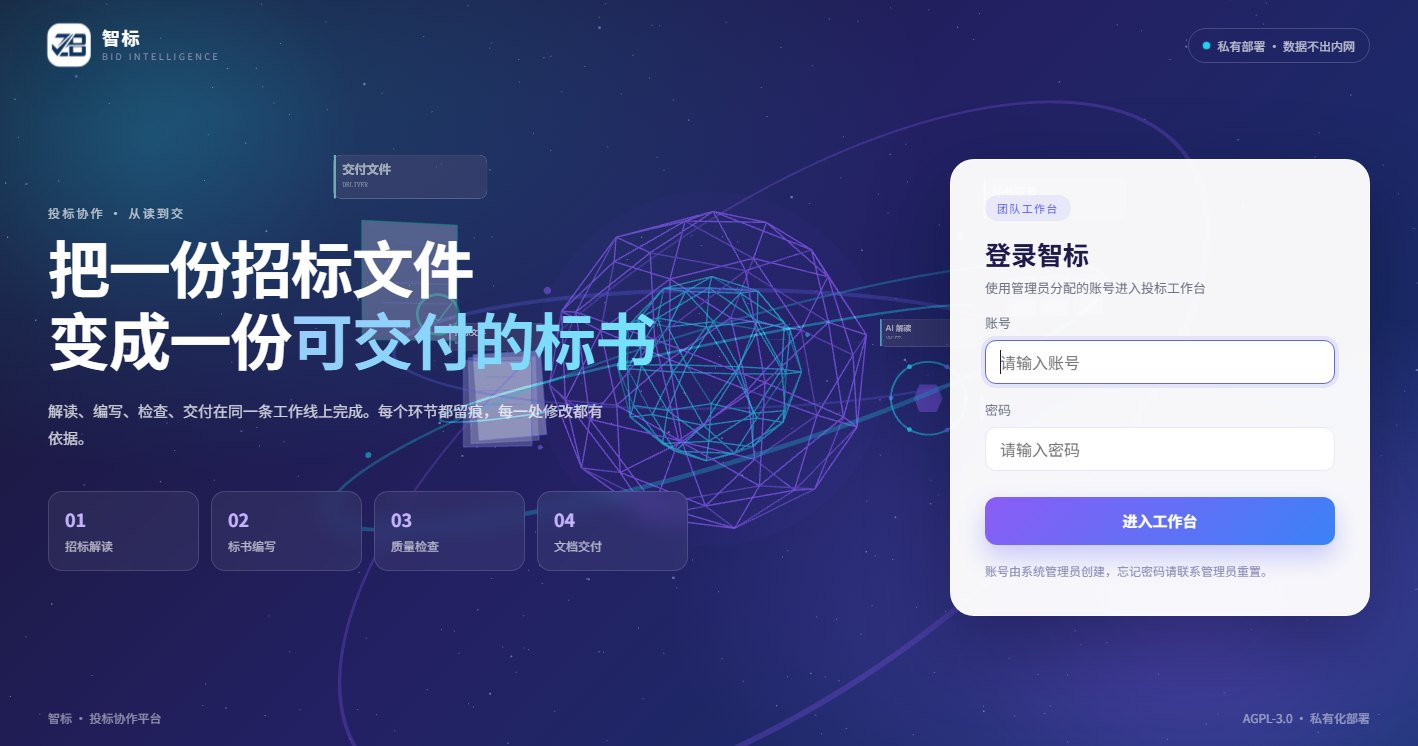
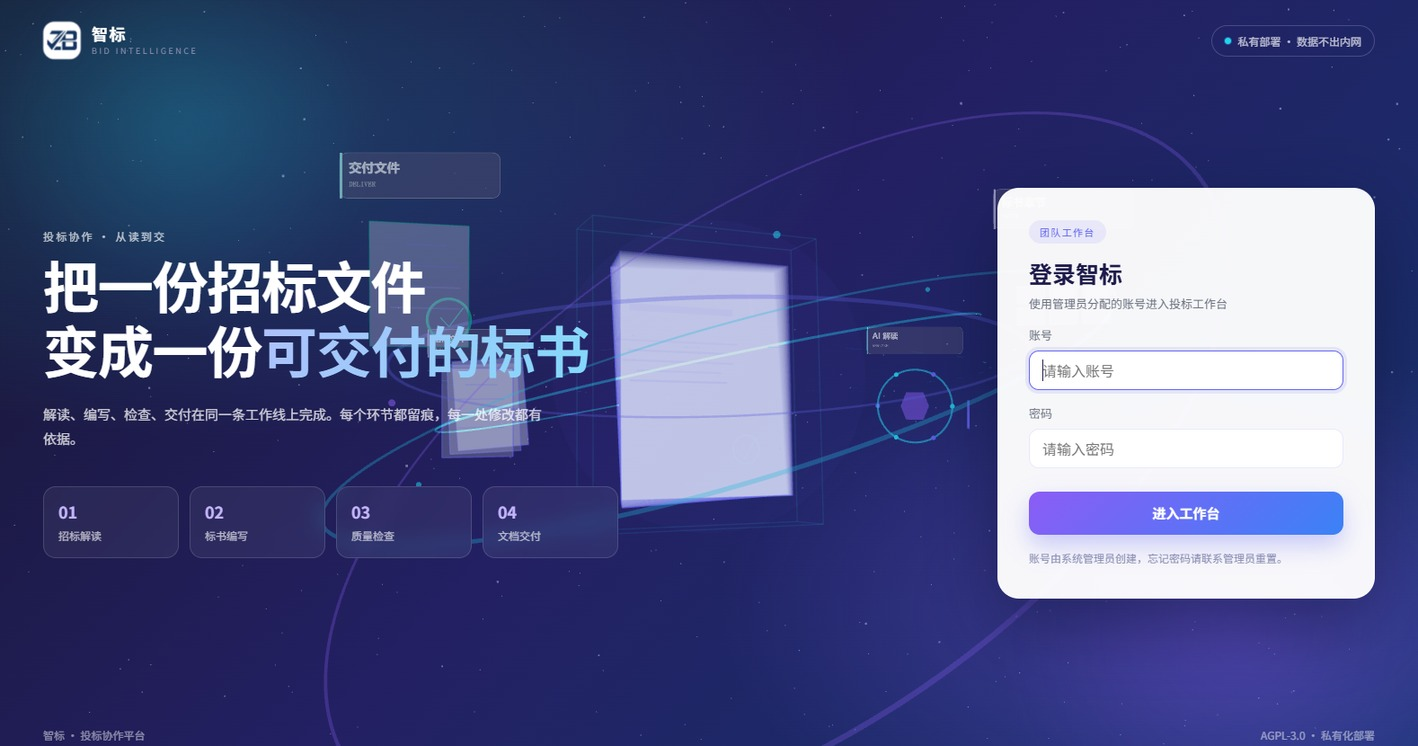
feat(web): 登录页中央球体改为一叠投标文件
- 用纸张叠层、封面标题条/目录行、书签与印章替代与业务无关的线框球
- 外层保留低透明度扫描框，四个业务站点仍围绕标书运转
- 更新 README 登录页说明与截图

diff --git a/packages/web/renderer-v2/src/components/Backdrop.tsx b/packages/web/renderer-v2/src/components/Backdrop.tsx
@@ -116,20 +116,81 @@ export function Backdrop({ dense = false }: Props) {
         blending: THREE.AdditiveBlending,
       });
 
-    // ── 中央“投标智能核”：文件、评分与交付围绕它运转 ──
-    const core = new THREE.Mesh(
-      new THREE.IcosahedronGeometry(compact ? 2.5 : 3.1, 1),
-      new THREE.MeshBasicMaterial({ color: colors.violet, wireframe: true, transparent: true, opacity: 0.52 }),
-    );
+    // ── 中央：一叠待交付的投标文件 ──
+    // 原来的嵌套线框球与标书没有任何关系；换成纸张叠层 + 封面目录行 + 印章，
+    // 让视线中心就是「一份标书」，轨道上的文件/解读/章节/交付围绕它运转。
+    const core = new THREE.Group();
+    core.rotation.x = -0.12;
+    core.scale.setScalar(compact ? 1 : 1.15);
     group.add(core);
 
-    const inner = new THREE.Mesh(
-      new THREE.IcosahedronGeometry(compact ? 1.45 : 1.8, 1),
-      new THREE.MeshBasicMaterial({ color: colors.cyan, wireframe: true, transparent: true, opacity: 0.38 }),
-    );
-    group.add(inner);
+    const bookW = compact ? 2.5 : 3.1;
+    const bookH = compact ? 3.3 : 4.0;
+    const bookPageGeo = new THREE.PlaneGeometry(bookW, bookH);
+    const bookPageEdges = new THREE.EdgesGeometry(bookPageGeo);
+    const bookPageCount = compact ? 7 : 10;
+    const pageStep = compact ? 0.05 : 0.06;
+    for (let index = 0; index < bookPageCount; index += 1) {
+      const front = index === bookPageCount - 1;
+      const page = new THREE.Mesh(bookPageGeo, fillMaterial(colors.paper, front ? 0.62 : 0.2));
+      page.position.set(index * 0.012, -index * 0.008, -index * pageStep);
+      page.rotation.z = index * 0.005;
+      core.add(page);
+      const edges = new THREE.LineSegments(
+        bookPageEdges,
+        lineMaterial(colors.indigo, front ? 0.82 : 0.28),
+      );
+      edges.position.copy(page.position);
+      edges.rotation.copy(page.rotation);
+      core.add(edges);
+    }
+    const coverZ = -(bookPageCount - 1) * pageStep + 0.012;
 
-    const coreGlow = new THREE.Mesh(new THREE.SphereGeometry(compact ? 2.7 : 3.3, 24, 24), glowMaterial(colors.violet, 0.045));
+    const titleBar = new THREE.Mesh(
+      new THREE.PlaneGeometry(bookW * 0.62, 0.12),
+      fillMaterial(colors.indigo, 0.8),
+    );
+    titleBar.position.set(-bookW * 0.08, bookH * 0.3, coverZ);
+    core.add(titleBar);
+
+    [0.72, 0.6, 0.66, 0.5, 0.58].forEach((ratio, index) => {
+      const rule = new THREE.Mesh(
+        new THREE.PlaneGeometry(bookW * ratio, 0.035),
+        fillMaterial(colors.indigo, 0.45),
+      );
+      rule.position.set(-bookW * 0.1, bookH * 0.16 - index * 0.17, coverZ);
+      core.add(rule);
+    });
+
+    const ribbon = new THREE.Mesh(
+      new THREE.PlaneGeometry(0.1, 0.52),
+      fillMaterial(colors.violet, 0.55),
+    );
+    ribbon.position.set(bookW * 0.34, bookH * 0.36, coverZ + 0.004);
+    ribbon.rotation.z = 0.18;
+    core.add(ribbon);
+
+    const coverSeal = new THREE.Mesh(
+      new THREE.TorusGeometry(compact ? 0.2 : 0.25, 0.016, 8, 48),
+      lineMaterial(colors.teal, 0.78),
+    );
+    coverSeal.position.set(bookW * 0.3, -bookH * 0.3, coverZ + 0.004);
+    core.add(coverSeal);
+    const coverCheck = new THREE.BufferGeometry().setFromPoints([
+      new THREE.Vector3(bookW * 0.24, -bookH * 0.3, coverZ + 0.006),
+      new THREE.Vector3(bookW * 0.29, -bookH * 0.34, coverZ + 0.006),
+      new THREE.Vector3(bookW * 0.37, -bookH * 0.24, coverZ + 0.006),
+    ]);
+    core.add(new THREE.Line(coverCheck, lineMaterial(colors.teal, 0.8)));
+
+    const scanFrame = new THREE.LineSegments(
+      new THREE.EdgesGeometry(new THREE.BoxGeometry(bookW + 1.0, bookH + 1.0, 0.9)),
+      lineMaterial(colors.cyan, 0.12),
+    );
+    scanFrame.position.z = -0.3;
+    core.add(scanFrame);
+
+    const coreGlow = new THREE.Mesh(new THREE.SphereGeometry(compact ? 2.6 : 3.2, 24, 24), glowMaterial(colors.violet, 0.04));
     group.add(coreGlow);
 
     const rings: THREE.Mesh[] = [];
@@ -426,10 +487,8 @@ export function Backdrop({ dense = false }: Props) {
         group.rotation.x += (-pointer.y * 0.1 - group.rotation.x) * 0.06;
         group.position.y = 0.2 + Math.sin(time * 0.55) * 0.08;
 
-        core.rotation.y = time * 0.32;
-        core.rotation.x = time * 0.16;
-        inner.rotation.y = -time * 0.42;
-        inner.rotation.z = time * 0.2;
+        core.rotation.y = Math.sin(time * 0.38) * 0.28;
+        core.rotation.x = -0.12 + Math.sin(time * 0.22) * 0.03;
         coreGlow.scale.setScalar(1 + Math.sin(time * 1.1) * 0.08);
         rings.forEach((ring, index) => {
           ring.rotation.z += delta * (0.03 + index * 0.012);

diff --git a/README.md b/README.md
@@ -10,7 +10,7 @@
 
 ### 登录
 
-登录页使用三维投标网络背景，鼠标移动会与粒子、节点产生交互；第二行标题刷新时逐字打出，并带闪烁光标。
+登录页使用三维投标场景：中央是一叠待交付的投标文件，招标文件、AI 解读、标书章节、交付文件围绕它运转；鼠标移动会与节点产生交互；第二行标题刷新时逐字打出，并带闪烁光标。
 
 ![登录](docs/screenshots/login.jpg)
 
